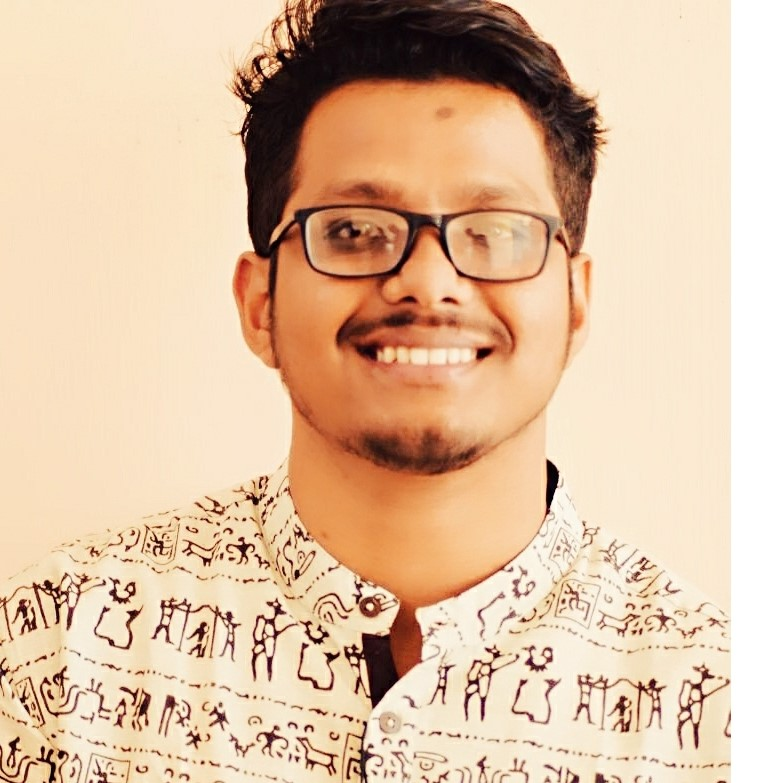
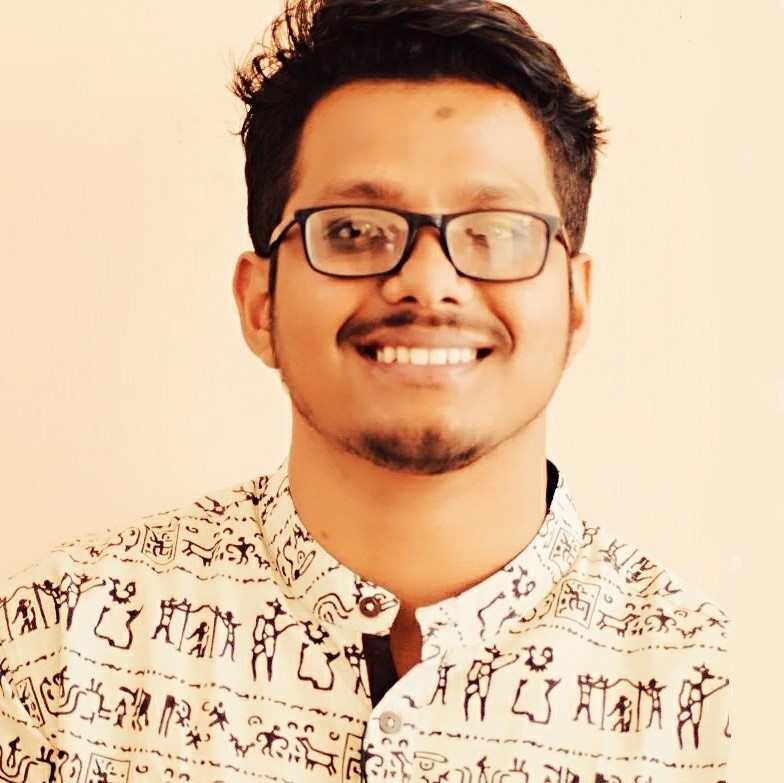
all mca images addes

Changed region(s): [[0.9184, 0.0, 1.0, 1.0]]

diff --git a/contactus.html b/contactus.html
@@ -134,26 +134,26 @@
                             <div class="row">
                                 <div class="col-sm-12 col-md-12 col-lg-5 offset-lg-1">
                                     <div class="card-contact-us bounce-in-fwd">
-                                        <img class="card-contactus image" src="https://images.unsplash.com/photo-1519999482648-25049ddd37b1?ixlib=rb-1.2.1&ixid=eyJhcHBfaWQiOjEyMDd9&auto=format&fit=crop&w=2126&q=80" alt="">
+                                        <img class="card-contactus image" src="images/team_mca/Sitakanta bej.jpg" alt="">
                                         <div class=" card-contactus circle"></div>
                                         <div class=" card-contactus title">Sitakanta Bej</div>
                                         <div class=" card-contactus sub-title">MCA</div>
                                         <ul class="social-network social-circle center">
                                             <li><a class="icoFacebook" href=""><i class="fa fa-facebook"></i></a></li>
-                                            <li><a class="icoFacebook" href=""><i class="fa fa-twitter"></i></a></li>
+                                            <li><a class="icoFacebook" href=""><i class="fa fa-phone"></i></a></li>
                                             <li><a class="icoFacebook" href=""><i class="fa fa-instagram"></i></a></li>
                                         </ul>
                                     </div>
                                 </div>
                                 <div class="col-sm-12 col-md-12 col-lg-5 offset-lg-1">
                                     <div class="card-contact-us bounce-in-fwd">
-                                        <img class="card-contactus image" src="https://images.unsplash.com/photo-1519999482648-25049ddd37b1?ixlib=rb-1.2.1&ixid=eyJhcHBfaWQiOjEyMDd9&auto=format&fit=crop&w=2126&q=80" alt="">
+                                        <img class="card-contactus image" src="images/team_mca/Swaraji Pattnaik.jpg" alt="">
                                         <div class=" card-contactus circle"></div>
                                         <div class=" card-contactus title">Swaraji Patnaik</div>
                                         <div class=" card-contactus sub-title">MCA</div>
                                         <ul class="social-network social-circle center">
                                             <li><a class="icoFacebook" href=""><i class="fa fa-facebook"></i></a></li>
-                                            <li><a class="icoFacebook" href=""><i class="fa fa-twitter"></i></a></li>
+                                            <li><a class="icoFacebook" href=""><i class="fa fa-phone"></i></a></li>
                                             <li><a class="icoFacebook" href=""><i class="fa fa-instagram"></i></a></li>
                                         </ul>
                                     </div>
@@ -215,7 +215,7 @@
                                 </div>
                                 <div class="col-sm-12 col-md-12 col-lg-5 offset-lg-1">
                                     <div class="card-contact-us">
-                                        <img class="card-contactus image" src="https://images.unsplash.com/photo-1519999482648-25049ddd37b1?ixlib=rb-1.2.1&ixid=eyJhcHBfaWQiOjEyMDd9&auto=format&fit=crop&w=2126&q=80" alt="">
+                                        <img class="card-contactus image" src="images/team_mca/Ronimama baghara.jpg" alt="">
                                         <div class=" card-contactus circle"></div>
                                         <div class=" card-contactus title">Ronimama Baghar</div>
                                         <div class=" card-contactus sub-title">MCA</div>
@@ -270,7 +270,7 @@
                             <div class="row">
                                 <div class="col-sm-12 col-md-12 col-lg-5 offset-lg-1">
                                     <div class="card-contact-us">
-                                        <img class="card-contactus image" src="https://images.unsplash.com/photo-1519999482648-25049ddd37b1?ixlib=rb-1.2.1&ixid=eyJhcHBfaWQiOjEyMDd9&auto=format&fit=crop&w=2126&q=80" alt="">
+                                        <img class="card-contactus image" src="images/team_mca/Pradosh kumar lenka.jpg" alt="">
                                         <div class=" card-contactus circle"></div>
                                         <div class=" card-contactus title">Pradosh Ku. Lenka</div>
                                         <div class=" card-contactus sub-title">MCA</div>
@@ -350,7 +350,7 @@
                                 </div>
                                 <div class="col-sm-12 col-md-12 col-lg-5 offset-lg-1">
                                     <div class="card-contact-us">
-                                        <img class="card-contactus image" src="https://images.unsplash.com/photo-1519999482648-25049ddd37b1?ixlib=rb-1.2.1&ixid=eyJhcHBfaWQiOjEyMDd9&auto=format&fit=crop&w=2126&q=80" alt="">
+                                        <img class="card-contactus image" src="images/team_mca/Amisha samal.jpg" alt="">
                                         <div class=" card-contactus circle"></div>
                                         <div class=" card-contactus title">Amisa Samal</div>
                                         <div class=" card-contactus sub-title">MCA</div>
@@ -404,7 +404,7 @@
                             <div class="row">
                                 <div class="col-sm-12 col-md-12 col-lg-5 offset-lg-1">
                                     <div class="card-contact-us">
-                                        <img class="card-contactus image" src="https://images.unsplash.com/photo-1519999482648-25049ddd37b1?ixlib=rb-1.2.1&ixid=eyJhcHBfaWQiOjEyMDd9&auto=format&fit=crop&w=2126&q=80" alt="">
+                                        <img class="card-contactus image" src="images/team_mca/Satyasarathi Barik.jpg" alt="">
                                         <div class=" card-contactus circle"></div>
                                         <div class=" card-contactus title">Satya Sarathi Barik</div>
                                         <div class=" card-contactus sub-title">MCA</div>
@@ -417,7 +417,7 @@
                                 </div>
                                 <div class="col-sm-12 col-md-12 col-lg-5 offset-lg-1">
                                     <div class="card-contact-us">
-                                        <img class="card-contactus image" src="https://images.unsplash.com/photo-1519999482648-25049ddd37b1?ixlib=rb-1.2.1&ixid=eyJhcHBfaWQiOjEyMDd9&auto=format&fit=crop&w=2126&q=80" alt="">
+                                        <img class="card-contactus image" src="images/team_mca/Simrani Rout.jpg" alt="">
                                         <div class=" card-contactus circle"></div>
                                         <div class=" card-contactus title">Simarani Rout</div>
                                         <div class=" card-contactus sub-title">MCA</div>
@@ -484,7 +484,7 @@
                                 </div>
                                 <div class="col-sm-12 col-md-12 col-lg-5 offset-lg-1">
                                     <div class="card-contact-us">
-                                        <img class="card-contactus image" src="https://images.unsplash.com/photo-1519999482648-25049ddd37b1?ixlib=rb-1.2.1&ixid=eyJhcHBfaWQiOjEyMDd9&auto=format&fit=crop&w=2126&q=80" alt="">
+                                        <img class="card-contactus image" src="images/team_mca/Alina rout.jpg" alt="">
                                         <div class=" card-contactus circle"></div>
                                         <div class=" card-contactus title">Alina Rout</div>
                                         <div class=" card-contactus sub-title">MCA</div>
@@ -539,7 +539,7 @@
                             <div class="row">
                                 <div class="col-sm-12 col-md-12 col-lg-5 offset-lg-1">
                                     <div class="card-contact-us">
-                                        <img class="card-contactus image" src="https://images.unsplash.com/photo-1519999482648-25049ddd37b1?ixlib=rb-1.2.1&ixid=eyJhcHBfaWQiOjEyMDd9&auto=format&fit=crop&w=2126&q=80" alt="">
+                                        <img class="card-contactus image" src="images/team_mca/Satyaprakash rout.jpg" alt="">
                                         <div class=" card-contactus circle"></div>
                                         <div class=" card-contactus title">Satyaprakash Rout</div>
                                         <div class=" card-contactus sub-title">MCA</div>
@@ -552,9 +552,9 @@
                                 </div>
                                 <div class="col-sm-12 col-md-12 col-lg-5 offset-lg-1">
                                     <div class="card-contact-us">
-                                        <img class="card-contactus image" src="https://images.unsplash.com/photo-1519999482648-25049ddd37b1?ixlib=rb-1.2.1&ixid=eyJhcHBfaWQiOjEyMDd9&auto=format&fit=crop&w=2126&q=80" alt="">
+                                        <img class="card-contactus image" src="images/team_mca/Swetika nayak.jpg" alt="">
                                         <div class=" card-contactus circle"></div>
-                                        <div class=" card-contactus title">Swatika Nayak</div>
+                                        <div class=" card-contactus title">Swetika Nayak</div>
                                         <div class=" card-contactus sub-title">MCA</div>
                                         <ul class="social-network social-circle center">
                                             <li><a class="icoFacebook" href=""><i class="fa fa-facebook"></i></a></li>
@@ -607,7 +607,7 @@
                             <div class="row">
                                 <div class="col-sm-12 col-md-12 col-lg-5 offset-lg-1">
                                     <div class="card-contact-us">
-                                        <img class="card-contactus image" src="https://images.unsplash.com/photo-1519999482648-25049ddd37b1?ixlib=rb-1.2.1&ixid=eyJhcHBfaWQiOjEyMDd9&auto=format&fit=crop&w=2126&q=80" alt="">
+                                        <img class="card-contactus image" src="images/team_mca/Neelesh Kumar mohanty.jpg" alt="">
                                         <div class=" card-contactus circle"></div>
                                         <div class=" card-contactus title">Neelesh Mohanty</div>
                                         <div class=" card-contactus sub-title">MCA</div>
@@ -620,7 +620,7 @@
                                 </div>
                                 <div class="col-sm-12 col-md-12 col-lg-5 offset-lg-1">
                                     <div class="card-contact-us">
-                                        <img class="card-contactus image" src="https://images.unsplash.com/photo-1519999482648-25049ddd37b1?ixlib=rb-1.2.1&ixid=eyJhcHBfaWQiOjEyMDd9&auto=format&fit=crop&w=2126&q=80" alt="">
+                                        <img class="card-contactus image" src="images/team_mca/Sumitra Singh.jpg" alt="">
                                         <div class=" card-contactus circle"></div>
                                         <div class=" card-contactus title">Sumitra Singh</div>
                                         <div class=" card-contactus sub-title">MCA</div>
@@ -688,7 +688,7 @@
                                 </div>
                                 <div class="col-sm-12 col-md-12 col-lg-5 offset-lg-1">
                                     <div class="card-contact-us">
-                                        <img class="card-contactus image" src="https://images.unsplash.com/photo-1519999482648-25049ddd37b1?ixlib=rb-1.2.1&ixid=eyJhcHBfaWQiOjEyMDd9&auto=format&fit=crop&w=2126&q=80" alt="">
+                                        <img class="card-contactus image" src="images/team_mca/Pragyan paramita madali.jpg" alt="">
                                         <div class=" card-contactus circle"></div>
                                         <div class=" card-contactus title">Pragya Paramita</div>
                                         <div class=" card-contactus sub-title">MCA</div>
@@ -743,7 +743,7 @@
                             <div class="row">
                                 <div class="col-sm-12 col-md-12 col-lg-5 offset-lg-1">
                                     <div class="card-contact-us">
-                                        <img class="card-contactus image" src="https://images.unsplash.com/photo-1519999482648-25049ddd37b1?ixlib=rb-1.2.1&ixid=eyJhcHBfaWQiOjEyMDd9&auto=format&fit=crop&w=2126&q=80" alt="">
+                                        <img class="card-contactus image" src="images/team_mca/Dibakar nayak.jpg" alt="">
                                         <div class=" card-contactus circle"></div>
                                         <div class=" card-contactus title">Dibakar Nayak</div>
                                         <div class=" card-contactus sub-title">MCA</div>
@@ -756,9 +756,9 @@
                                 </div>
                                 <div class="col-sm-12 col-md-12 col-lg-5 offset-lg-1">
                                     <div class="card-contact-us">
-                                        <img class="card-contactus image" src="https://images.unsplash.com/photo-1519999482648-25049ddd37b1?ixlib=rb-1.2.1&ixid=eyJhcHBfaWQiOjEyMDd9&auto=format&fit=crop&w=2126&q=80" alt="">
+                                        <img class="card-contactus image" src="images/team_mca/Jogomaya mishra.jpg" alt="">
                                         <div class=" card-contactus circle"></div>
-                                        <div class=" card-contactus title">Jagamaya Mishra</div>
+                                        <div class=" card-contactus title">Jogamaya Mishra</div>
                                         <div class=" card-contactus sub-title">MCA</div>
                                         <ul class="social-network social-circle center">
                                             <li><a class="icoFacebook" href=""><i class="fa fa-facebook"></i></a></li>
@@ -824,7 +824,7 @@
                                 </div>
                                 <div class="col-sm-12 col-md-12 col-lg-5 offset-lg-1">
                                     <div class="card-contact-us">
-                                        <img class="card-contactus image" src="https://images.unsplash.com/photo-1519999482648-25049ddd37b1?ixlib=rb-1.2.1&ixid=eyJhcHBfaWQiOjEyMDd9&auto=format&fit=crop&w=2126&q=80" alt="">
+                                        <img class="card-contactus image" src="images/team_mca/Sushreenibedita pradhan.jpg" alt="">
                                         <div class=" card-contactus circle"></div>
                                         <div class=" card-contactus title">Sushree Nibedita</div>
                                         <div class=" card-contactus sub-title">MCA</div>
@@ -892,7 +892,7 @@
                                 </div>
                                 <div class="col-sm-12 col-md-12 col-lg-5 offset-lg-1">
                                     <div class="card-contact-us">
-                                        <img class="card-contactus image" src="https://images.unsplash.com/photo-1519999482648-25049ddd37b1?ixlib=rb-1.2.1&ixid=eyJhcHBfaWQiOjEyMDd9&auto=format&fit=crop&w=2126&q=80" alt="">
+                                        <img class="card-contactus image" src="images/team_mca/Pujarani rout.jpg" alt="">
                                         <div class=" card-contactus circle"></div>
                                         <div class=" card-contactus title">Pujarani Rout</div>
                                         <div class=" card-contactus sub-title">MCA</div>
@@ -1015,7 +1015,7 @@
                             <div class="row">
                                 <div class="col-sm-12 col-md-12 col-lg-5 offset-lg-1">
                                     <div class="card-contact-us">
-                                        <img class="card-contactus image" src="https://images.unsplash.com/photo-1519999482648-25049ddd37b1?ixlib=rb-1.2.1&ixid=eyJhcHBfaWQiOjEyMDd9&auto=format&fit=crop&w=2126&q=80" alt="">
+                                        <img class="card-contactus image" src="images/team_mca/Srinivas Sahu.jpg" alt="">
                                         <div class=" card-contactus circle"></div>
                                         <div class=" card-contactus title">Srinivash Prayag Sahu</div>
                                         <div class=" card-contactus sub-title">MCAr</div>
@@ -1028,7 +1028,7 @@
                                 </div>
                                 <div class="col-sm-12 col-md-12 col-lg-5 offset-lg-1">
                                     <div class="card-contact-us">
-                                        <img class="card-contactus image" src="https://images.unsplash.com/photo-1519999482648-25049ddd37b1?ixlib=rb-1.2.1&ixid=eyJhcHBfaWQiOjEyMDd9&auto=format&fit=crop&w=2126&q=80" alt="">
+                                        <img class="card-contactus image" src="images/team_mca/Poonam Das.jpg" alt="">
                                         <div class=" card-contactus circle"></div>
                                         <div class=" card-contactus title">Poonam Das</div>
                                         <div class=" card-contactus sub-title">MCA</div>
@@ -1164,9 +1164,9 @@
                                 </div>
                                 <div class="col-sm-12 col-md-12 col-lg-5 offset-lg-1">
                                     <div class="card-contact-us">
-                                        <img class="card-contactus image" src="https://images.unsplash.com/photo-1519999482648-25049ddd37b1?ixlib=rb-1.2.1&ixid=eyJhcHBfaWQiOjEyMDd9&auto=format&fit=crop&w=2126&q=80" alt="">
+                                        <img class="card-contactus image" src="images/team_mca/Rashmirekha das.jpg" alt="">
                                         <div class=" card-contactus circle"></div>
-                                        <div class=" card-contactus title">Rashmi Rekha Das</div>
+                                        <div class=" card-contactus title">Rashmi Rekha Dash</div>
                                         <div class=" card-contactus sub-title">MCA</div>
                                         <ul class="social-network social-circle center">
                                             <li><a class="icoFacebook" href=""><i class="fa fa-facebook"></i></a></li>
@@ -1219,7 +1219,7 @@
                             <div class="row">
                                 <div class="col-sm-12 col-md-12 col-lg-5 offset-lg-1">
                                     <div class="card-contact-us">
-                                        <img class="card-contactus image" src="https://images.unsplash.com/photo-1519999482648-25049ddd37b1?ixlib=rb-1.2.1&ixid=eyJhcHBfaWQiOjEyMDd9&auto=format&fit=crop&w=2126&q=80" alt="">
+                                        <img class="card-contactus image" src="images/team_mca/Gyana Ranjan behera.jpg" alt="">
                                         <div class=" card-contactus circle"></div>
                                         <div class=" card-contactus title">Gyana Ranjan Behera</div>
                                         <div class=" card-contactus sub-title">MCA</div>

diff --git a/css/main.css b/css/main.css
@@ -1088,12 +1088,12 @@ button.ui-button {
     border-right-color: rgb(244, 183, 4);
     border-bottom-color: rgb(51, 163, 81);
     border-left-color: rgb(64, 129, 237);
-    animation: wheel 4s linear infinite;
+    animation: wheel 6s linear infinite;
 }
 
 @keyframes wheel {
     0% {
-        transform: rotateZ(0deg);
+        transform: rotateZ(-360deg);
     }
     100% {
         transform: rotateZ(360deg);
@@ -1104,7 +1104,7 @@ button.ui-button {
     font-family: 'Josefin Sans', sans-serif;
     font-family: 'Concert One', cursive;
     text-align: center;
-    margin-top: calc(33vh*0.6 + 12px + 10% + 5px);
+    margin-top: calc(33vh*0.6 + 12px + 10% + 6px);
     font-size: 1.45em;
     font-weight: 500;
     color: black;
